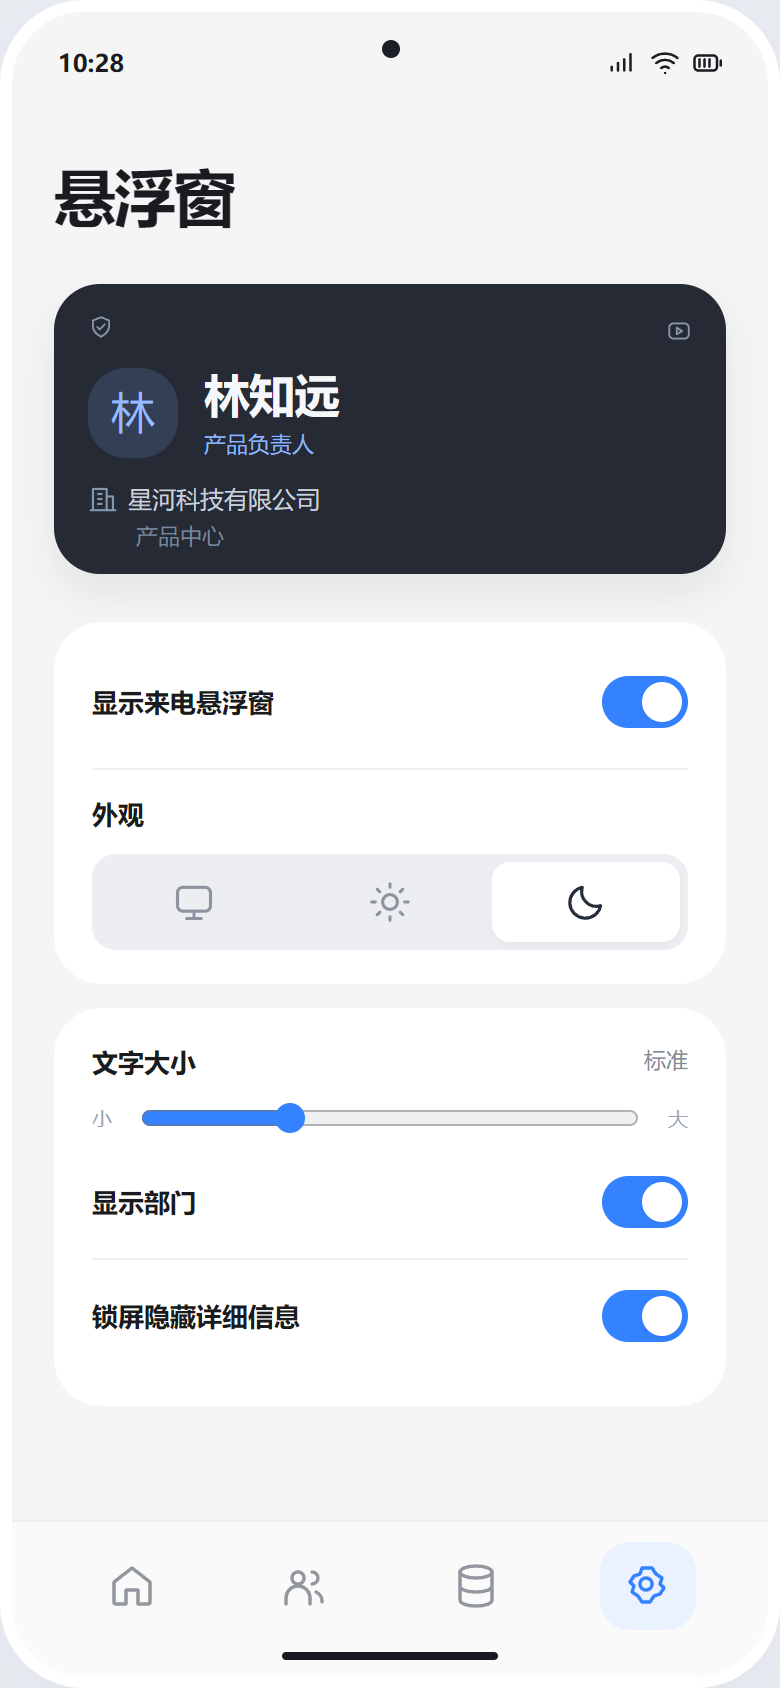
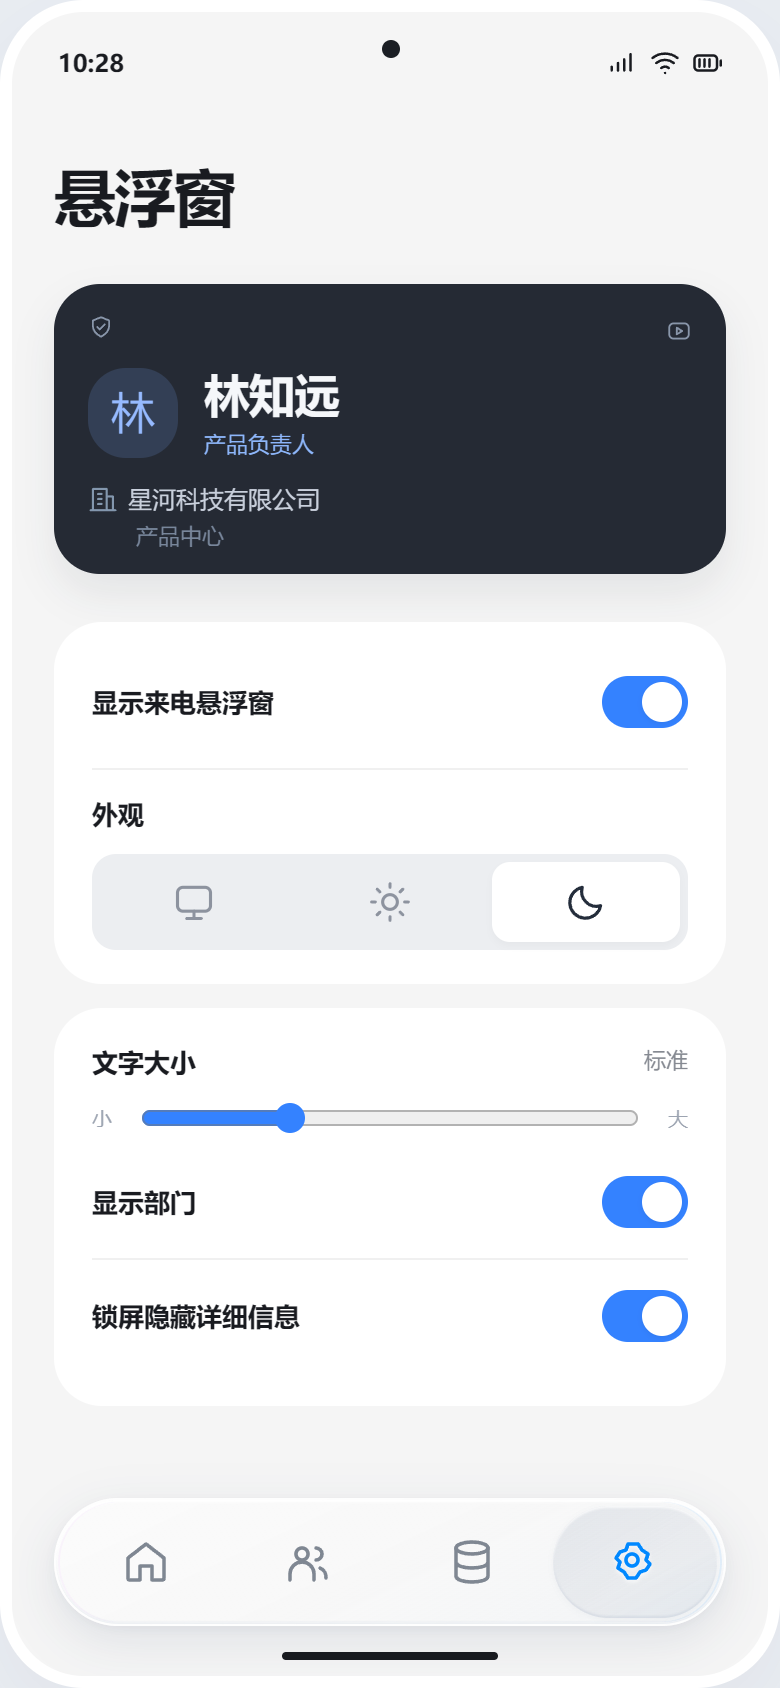
design: 采用 LiquidBottomTabs 液态玻璃导航设计

diff --git a/docs/design/v1/index.html b/docs/design/v1/index.html
@@ -18,6 +18,15 @@
 .segmented button{display:flex;justify-content:center;align-items:center;min-height:40px}.hero .iconbtn{color:#3482ff}.floating{padding-bottom:23px}.show-float{left:165px}.caption .iconbtn{margin-left:auto;min-height:24px;padding:0}.caption .iconbtn svg{width:17px;height:17px}.step button{display:flex;align-items:center;justify-content:center;width:36px;height:36px;padding:8px}.step button svg{width:18px;height:18px}
 #home .hero{margin-top:24px;padding:22px}#home .hero-title{margin-top:20px;margin-bottom:0}#home .metrics{margin-top:22px}#home .split{margin:18px 0}#home .section{margin-top:24px}#home .title{margin-top:5px}#home .topline{justify-content:flex-end}
 #directory .title,#appearance .title{margin-top:15px;margin-bottom:22px}#directory .person-line{padding:21px 0}#directory .search{margin-top:22px}#sync .card{margin-top:20px}#sync .sync-stats{margin:25px 0}#sync-button{display:flex;justify-content:center;align-items:center}#appearance .mini-preview{margin-bottom:24px}#appearance .setting-row{min-height:57px}#setup .card{margin-top:32px}#setup .step{padding:23px 0}
+/* LiquidBottomTabs preview: native Backdrop lens rendering is implemented in Compose. */
+.nav{left:21px;right:21px;bottom:25px;height:64px;padding:4px;gap:0;border:1px solid #ffffffd9;border-radius:999px;justify-content:initial;background:linear-gradient(155deg,#ffffffa8,#ffffff54 50%,#f0f4f880);backdrop-filter:blur(8px) saturate(1.5);-webkit-backdrop-filter:blur(8px) saturate(1.5);box-shadow:0 8px 25px #1b35551a,0 2px 5px #23364b0a,inset 0 1px 1px #fff,inset 0 -1px 1px #c4cddc66;isolation:isolate;overflow:visible}
+.nav:before{content:"";position:absolute;left:4px;top:3px;width:calc((100% - 8px)/4);height:56px;border-radius:999px;background:linear-gradient(150deg,#d2d7df8a,#d8dce26b 60%,#c9d4df65);box-shadow:inset 0 1px 1px #ffffffb3,inset 0 -1px 1px #afbaca45,0 1px 3px #52637d0d;transform:translateX(calc(var(--tab-index,0)*100%));transition:transform .4s cubic-bezier(.22,1.35,.4,1),scale .2s;pointer-events:none;z-index:-1}
+.nav:after{content:"";position:absolute;inset:0;border-radius:inherit;border:1px solid #ffffff5c;box-shadow:inset 1px 0 #edb6ff1c,inset -1px 0 #8ecbff30;pointer-events:none}
+.nav button{flex:1;min-width:0;height:54px;min-height:48px;border-radius:999px;background:transparent;color:#7f8792;transition:color .2s,transform .2s;touch-action:manipulation}
+.nav button.active{background:transparent;color:#0088ff}.nav button:active{transform:scale(1.12)}.nav:has(button:active):before{scale:1.04 1.07}.nav svg{width:24px;height:24px;stroke-width:1.8}.nav button.active svg{filter:drop-shadow(0 1px 1px #ffffffc9)}
+.phone:has(.nav) .content{max-height:calc(100% - 145px);overflow-y:auto;scrollbar-width:none;padding-bottom:16px}
+@media(prefers-reduced-motion:reduce){.nav:before,.nav button{transition:none}}
+@supports not (backdrop-filter:blur(8px)){.nav{background:#f4f6f9f5}}
 </style>
 </head>
 <body><main class="board">
@@ -35,14 +44,14 @@
 const paths={refresh:'<path d="M20 7v5h-5M4 17v-5h5M5 7a8 8 0 0 1 13-2l2 3M4 16l2 3a8 8 0 0 0 13-2"/>',system:'<rect x="3" y="4" width="18" height="13" rx="3"/><path d="M8 21h8M12 17v4"/>',sun:'<circle cx="12" cy="12" r="4"/><path d="M12 2v2M12 20v2M2 12h2M20 12h2M5 5l1.5 1.5M17.5 17.5 19 19M5 19l1.5-1.5M17.5 6.5 19 5"/>',moon:'<path d="M20 14a8 8 0 0 1-10-10 8.5 8.5 0 1 0 10 10Z"/>',shield:'<path d="M12 3 4.5 6v5c0 4.6 3.2 7.7 7.5 10 4.3-2.3 7.5-5.4 7.5-10V6Z"/><path d="m8.5 12 2.3 2.3 4.7-4.7"/>',settings:'<path d="m9 3-1 3-3 1-2 3 2 2-1 3 3 2 2 3h4l2-3 3-1 2-3-2-2 1-3-3-2-2-3Z"/><circle cx="11" cy="11" r="3"/>',arrow:'<path d="m9 5 7 7-7 7"/>',back:'<path d="m15 5-7 7 7 7"/>',preview:'<rect x="3" y="5" width="18" height="14" rx="4"/><path d="m10 9 5 3-5 3Z"/>',home:'<path d="m3 10 9-7 9 7v10a1 1 0 0 1-1 1h-5v-7H9v7H4a1 1 0 0 1-1-1Z"/>',people:'<circle cx="9" cy="8" r="3"/><path d="M3 21v-3a6 6 0 0 1 12 0v3M16 5a3 3 0 0 1 0 6M18 15a5 5 0 0 1 3 5"/>',database:'<ellipse cx="12" cy="5" rx="8" ry="3"/><path d="M4 5v14c0 4 16 4 16 0V5M4 12c0 4 16 4 16 0"/>',phone:'<path d="m6 3 4 5-3 3c2 3 3 4 6 6l3-3 5 4c-1 4-4 5-7 3C7 18 2 13 2 7c0-2 2-4 4-4Z"/>',person:'<circle cx="12" cy="8" r="4"/><path d="M4 22v-3a8 8 0 0 1 16 0v3"/>',close:'<path d="m6 6 12 12M6 18 18 6"/>',building:'<path d="M4 21V4h11v17M15 10h5v11M2 21h20M8 8h3M8 12h3M8 16h3"/>',search:'<circle cx="10.5" cy="10.5" r="6.5"/><path d="m16 16 5 5"/>',info:'<circle cx="12" cy="12" r="9"/><path d="M12 11v5M12 7v.1"/>',check:'<path d="m5 12 4.5 4.5L19 7"/>',sliders:'<path d="M4 7h16M4 17h16"/><circle cx="9" cy="7" r="3" fill="currentColor" stroke="none"/><circle cx="16" cy="17" r="3" fill="currentColor" stroke="none"/>',signal:'<path d="M3 18v-3M8 18v-6M13 18V9M18 18V5"/>',wifi:'<path d="M2 8a16 16 0 0 1 20 0M5 12a11 11 0 0 1 14 0M9 16a5 5 0 0 1 6 0M12 20h.1"/>',battery:'<rect x="2" y="6" width="18" height="12" rx="3"/><path d="M23 10v4M6 9v6M10 9v6M14 9v6"/>'};
 function icon(n){return `<svg viewBox="0 0 24 24" aria-hidden="true">${paths[n]||paths.info}</svg>`}
 document.querySelectorAll('[data-status]').forEach(el=>el.outerHTML=`<div class="status"><span>10:28</span><span class="symbols">${icon('signal')}${icon('wifi')}${icon('battery')}</span></div><div class="camera"></div>`);
-document.querySelectorAll('[data-nav]').forEach(el=>{let current=el.dataset.nav;el.outerHTML=`<nav class="nav" aria-label="底部导航">${[['home','home','首页'],['directory','people','人员库'],['sync','database','同步'],['appearance','settings','设置']].map(([id,ic,t])=>`<button data-jump="${id}" aria-label="${t}" title="${t}" class="${current===id?'active':''}">${icon(ic)}</button>`).join('')}</nav>`});
+document.querySelectorAll('[data-nav]').forEach(el=>{let current=el.dataset.nav;let items=[['home','home','首页'],['directory','people','人员库'],['sync','database','同步'],['appearance','settings','设置']];el.outerHTML=`<nav class="nav" data-component="LiquidBottomTabs" style="--tab-index:${items.findIndex(x=>x[0]===current)}" aria-label="底部导航">${items.map(([id,ic,t])=>`<button data-jump="${id}" aria-label="${t}" title="${t}" ${current===id?'aria-current="page"':''} class="${current===id?'active':''}">${icon(ic)}</button>`).join('')}</nav>`});
 document.querySelectorAll('[data-icon]').forEach(el=>el.innerHTML=icon(el.dataset.icon));
 const people=[['林知远','产品负责人','星河科技有限公司','产品中心','13800000001',''],['陈亦宁','人事经理','星河科技有限公司','人力资源部','13800000002','mint'],['周予安','技术总监','云杉信息有限公司','研发中心','13800000003','lilac'],['许清和','项目经理','远山设计有限公司','项目管理部','13800000004','mint']];
 let orgFilter='all';function renderPeople(){let q=document.querySelector('#search').value.trim().toLowerCase();let list=people.filter(p=>p.join(' ').toLowerCase().includes(q)&&(orgFilter==='all'||p[2].includes(orgFilter)));document.querySelector('#people-list').innerHTML=list.map(p=>`<div class="person-line"><div class="avatar ${p[5]}">${p[0][0]}</div><div><b>${p[0]}</b><span class="role">${p[1]}</span><div class="org">${p[2]}</div><span class="tag">${p[3]}</span></div></div>`).join('')||'<div class="empty">未找到相关人员</div>';document.querySelector('#result-count').textContent=list.length+' 位'}renderPeople();document.querySelector('#search').addEventListener('input',renderPeople);
 document.querySelectorAll('[data-filter]').forEach(b=>b.onclick=()=>{orgFilter=b.dataset.filter;document.querySelectorAll('[data-filter]').forEach(x=>x.classList.toggle('active',x===b));renderPeople()});
 function toast(el,msg){let phone=el.closest('.phone');phone.querySelector('.toast')?.remove();let t=document.createElement('div');t.className='toast';t.textContent=msg;t.setAttribute('role','status');phone.append(t);setTimeout(()=>t.remove(),2600)}
 document.querySelectorAll('[data-toast]').forEach(b=>b.onclick=()=>toast(b,b.dataset.toast));
-document.querySelectorAll('[data-jump]').forEach(b=>b.onclick=()=>{let t=document.getElementById(b.dataset.jump);t.scrollIntoView({behavior:'smooth',block:'center'});t.animate([{boxShadow:'0 0 0 4px #3482ff60'},{boxShadow:'0 14px 40px #20334d0c'}],{duration:900})});
+document.querySelectorAll('[data-jump]').forEach(b=>b.onclick=()=>{const nav=b.closest('.nav');if(nav){const buttons=[...nav.querySelectorAll('button')];nav.style.setProperty('--tab-index',buttons.indexOf(b));buttons.forEach(x=>{x.classList.toggle('active',x===b);if(x===b)x.setAttribute('aria-current','page');else x.removeAttribute('aria-current')})}let t=document.getElementById(b.dataset.jump);t.scrollIntoView({behavior:'smooth',block:'center'});t.animate([{boxShadow:'0 0 0 4px #3482ff60'},{boxShadow:'0 14px 40px #20334d0c'}],{duration:900})});
 document.querySelector('#hide-float').onclick=()=>document.querySelector('#call-float').classList.add('hidden');document.querySelector('#show-float').onclick=()=>document.querySelector('#call-float').classList.remove('hidden');
 document.querySelectorAll('.switch').forEach(b=>b.onclick=()=>{let on=!b.classList.contains('on');b.classList.toggle('on',on);b.setAttribute('aria-checked',String(on));if(b.id==='department-switch')document.querySelector('#mini-preview .department').hidden=!on;if(b.id==='overlay-switch'){document.querySelector('#call-float').classList.toggle('hidden',!on);document.querySelector('#home-state').textContent=on?'识别已开启':'已暂停';toast(b,on?'已开启悬浮窗 · 演示':'已暂停悬浮窗 · 演示')}});
 document.querySelectorAll('[data-theme]').forEach(b=>b.onclick=()=>{document.querySelectorAll('[data-theme]').forEach(x=>x.classList.toggle('active',x===b));let light=b.dataset.theme==='light'||b.dataset.theme==='system'&&!matchMedia('(prefers-color-scheme: dark)').matches;document.querySelector('#mini-preview').classList.toggle('light-preview',light);document.querySelector('#mini-preview').setAttribute('aria-label',light?'浅色预览':'深色预览')});

diff --git a/scripts/render_design.py b/scripts/render_design.py
@@ -53,12 +53,19 @@ def main():
         page.locator('#overlay-switch').click()
         assert page.locator('#home-state').inner_text() == '已暂停'
         page.locator('#overlay-switch').click()
+        nav = page.locator('#home .nav')
+        assert nav.get_attribute('data-component') == 'LiquidBottomTabs'
+        nav.locator('[data-jump="directory"]').click()
+        assert nav.locator('[aria-current="page"]').get_attribute('aria-label') == '人员库'
+        assert nav.evaluate("el => el.style.getPropertyValue('--tab-index')") == '1'
+        for name in ['home', 'directory', 'appearance']:
+            assert page.locator('#' + name + ' .nav').evaluate('el => {const n=el.getBoundingClientRect(),p=el.closest(".phone").getBoundingClientRect();return n.left>p.left && n.right<p.right && n.bottom<p.bottom-15}')
         page.set_viewport_size({'width': 430, 'height': 950})
         assert page.evaluate('document.documentElement.scrollWidth <= innerWidth')
         assert not errors, errors
         report = {'status': 'passed', 'browser': browser.version, 'screens': IDS,
                   'checks': ['中文姓名搜索', '号码搜索', '空结果', '单位筛选', '关闭及恢复悬浮窗',
-                             '浅色预览', '部门开关', '同步失败', '重试成功', '识别暂停', '430px 预览无横向溢出'],
+                             '浅色预览', '部门开关', '同步失败', '重试成功', '识别暂停', '玻璃导航选中态切换与安全区', '430px 预览无横向溢出'],
                   'page_errors': errors, 'scope': 'HTML 设计原型；不代表 Android 功能或设备验收'}
         (OUT / 'validation.json').write_text(json.dumps(report, ensure_ascii=False, indent=2), encoding='utf-8')
         print(json.dumps(report, ensure_ascii=False))

diff --git a/docs/design/v1/DESIGN.md b/docs/design/v1/DESIGN.md
@@ -55,7 +55,7 @@
 | --- | --- |
 | 页面与大标题 | Scaffold、TopAppBar |
 | 首页 / 人员卡片 | Card、BasicComponent、Text |
-| 底部导航 | NavigationBar |
+| 底部导航 | AndroidLiquidGlass 示例组件 LiquidBottomTabs；替代普通 NavigationBar |
 | 搜索与筛选 | SearchBar、TabRow 或受控按钮组 |
 | 同步操作 | Button、ProgressIndicator、Snackbar |
 | 外观 / 显示设置 | Switch、Slider、基础设置行 |
@@ -63,6 +63,17 @@
 | 来电浮窗 | WindowManager 承载 Compose 内容，内部复用 MiuixTheme / Card / Text |
 
 Miuix 本身是 UI 库，不提供电话识别或系统级浮窗服务。系统授权页由 Android / HyperOS 展示，本应用只做进入前说明与状态回读。
+
+## 液态玻璃导航
+
+用户指定使用 [LiquidBottomTabs](https://github.com/Kyant0/AndroidLiquidGlass/blob/kmp/app/src/commonMain/kotlin/com/kyant/backdrop/catalog/components/LiquidBottomTabs.kt)。原生阶段采用该示例组件及所需辅助代码，保留来源与许可；它位于示例应用中，不假设仅添加 Backdrop 依赖就能直接导入。
+
+- 浮动胶囊轨道，64dp 高、内边距 4dp；四个纯图标入口，选中图标蓝色。
+- 背景取样、模糊、透镜与边缘高光由 Backdrop 绘制；选中胶囊支持弹性移动和按压、拖动反馈。
+- 设计定位为左右 21dp、底部距系统手势安全区约 17dp；实际以设备 Insets 调整。内容预留底部空间，不能被轨道遮挡。
+- 导航标签通过无障碍名称提供，当前入口标记选中；不重复添加可见小字。
+
+本次 HTML 稿提供半透明轨道、模糊、高光、选中态滑动和按压的视觉预览。浏览器 CSS 无法等同原生透镜折射；真实液态玻璃、拖动反馈和性能在原生接入后验收。页面其余组件继续使用 Miuix。
 
 ## 独立浮窗规范
 

diff --git a/README.md b/README.md
@@ -33,7 +33,7 @@ scripts/                  # 设计图导出脚本
 samples/                  # 仅虚构 CSV 样例
 ```
 
-采用 Kotlin + Jetpack Compose，界面计划接入 [Miuix](https://github.com/compose-miuix-ui/miuix)。当前 HTML 是用于评审的可编辑设计源，不代表已经接入原生组件。Android 构建配置和库版本在实施阶段确认。
+采用 Kotlin + Jetpack Compose，界面计划接入 [Miuix](https://github.com/compose-miuix-ui/miuix)，底部导航指定采用 AndroidLiquidGlass 的 [LiquidBottomTabs](https://github.com/Kyant0/AndroidLiquidGlass/blob/kmp/app/src/commonMain/kotlin/com/kyant/backdrop/catalog/components/LiquidBottomTabs.kt) 示例组件。当前 HTML 是用于评审的可编辑设计源，不代表已经接入原生组件。Android 构建配置和库版本在实施阶段确认。
 
 ## 重新导出设计图
 
